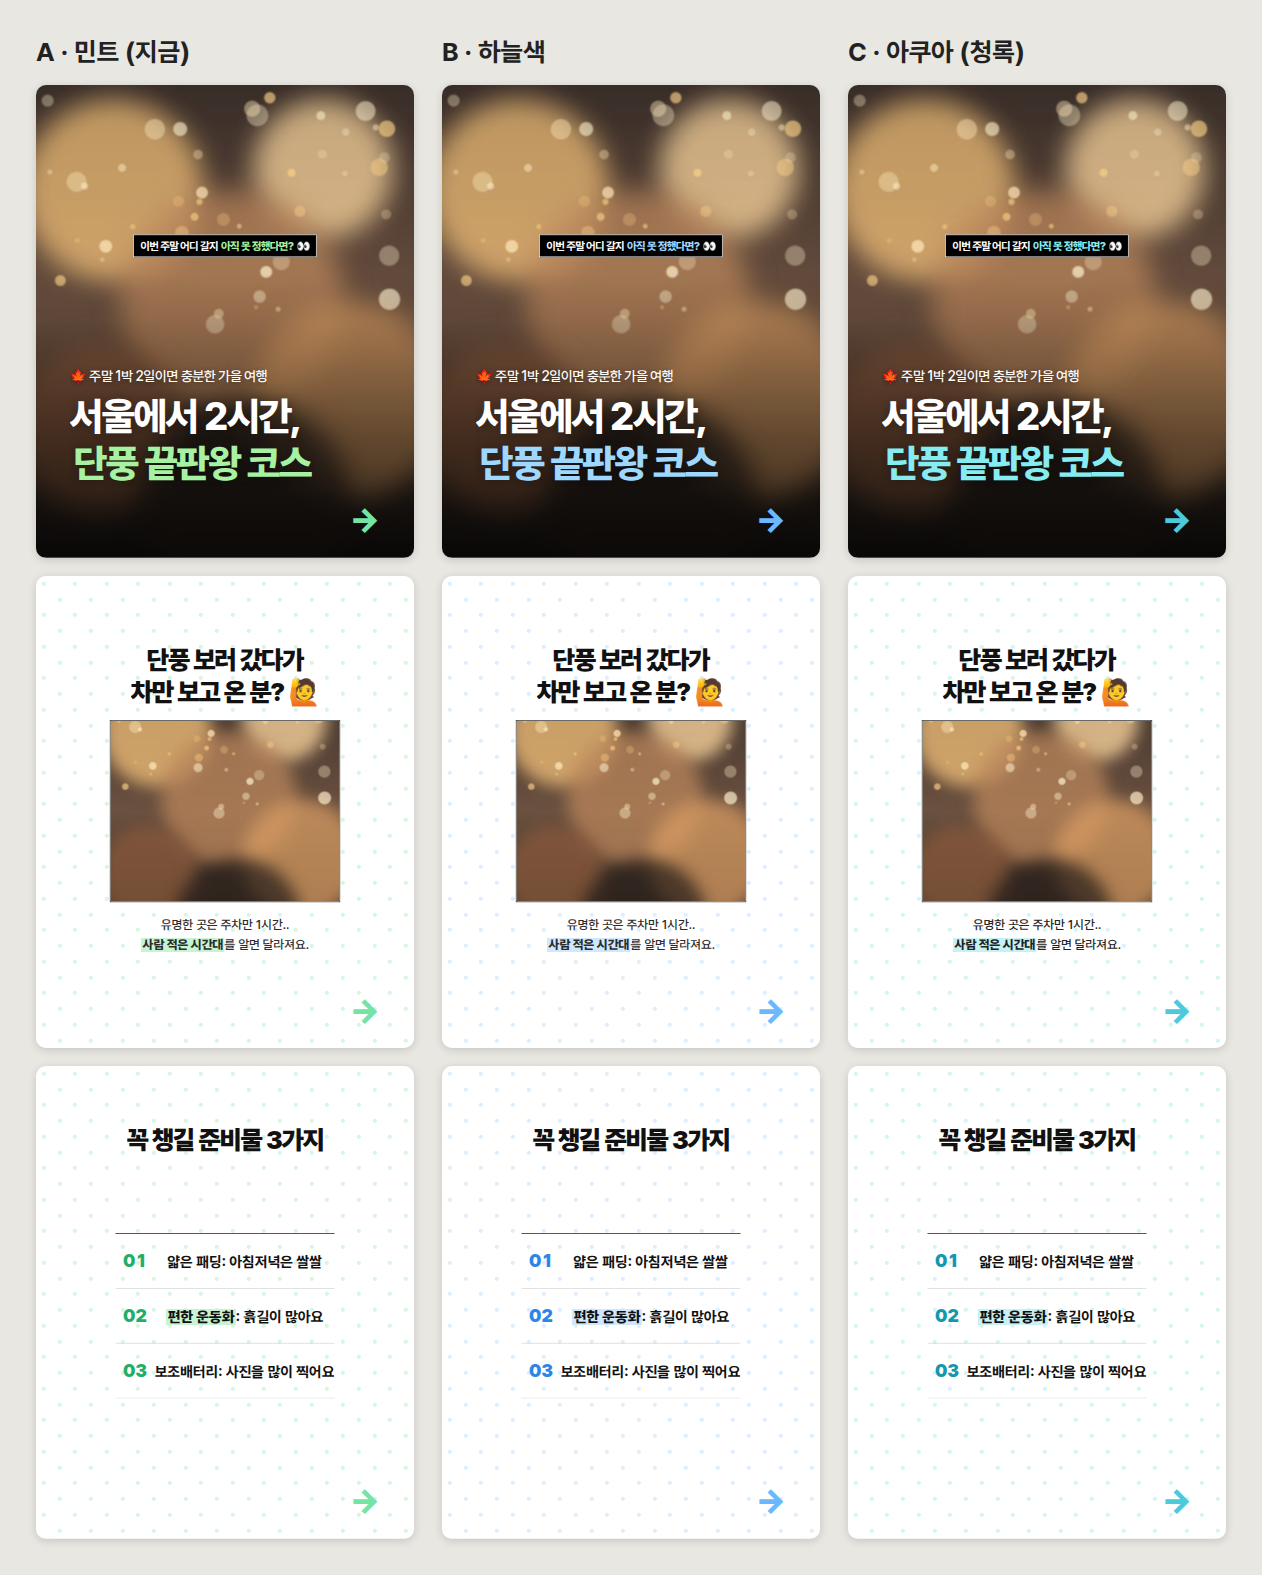
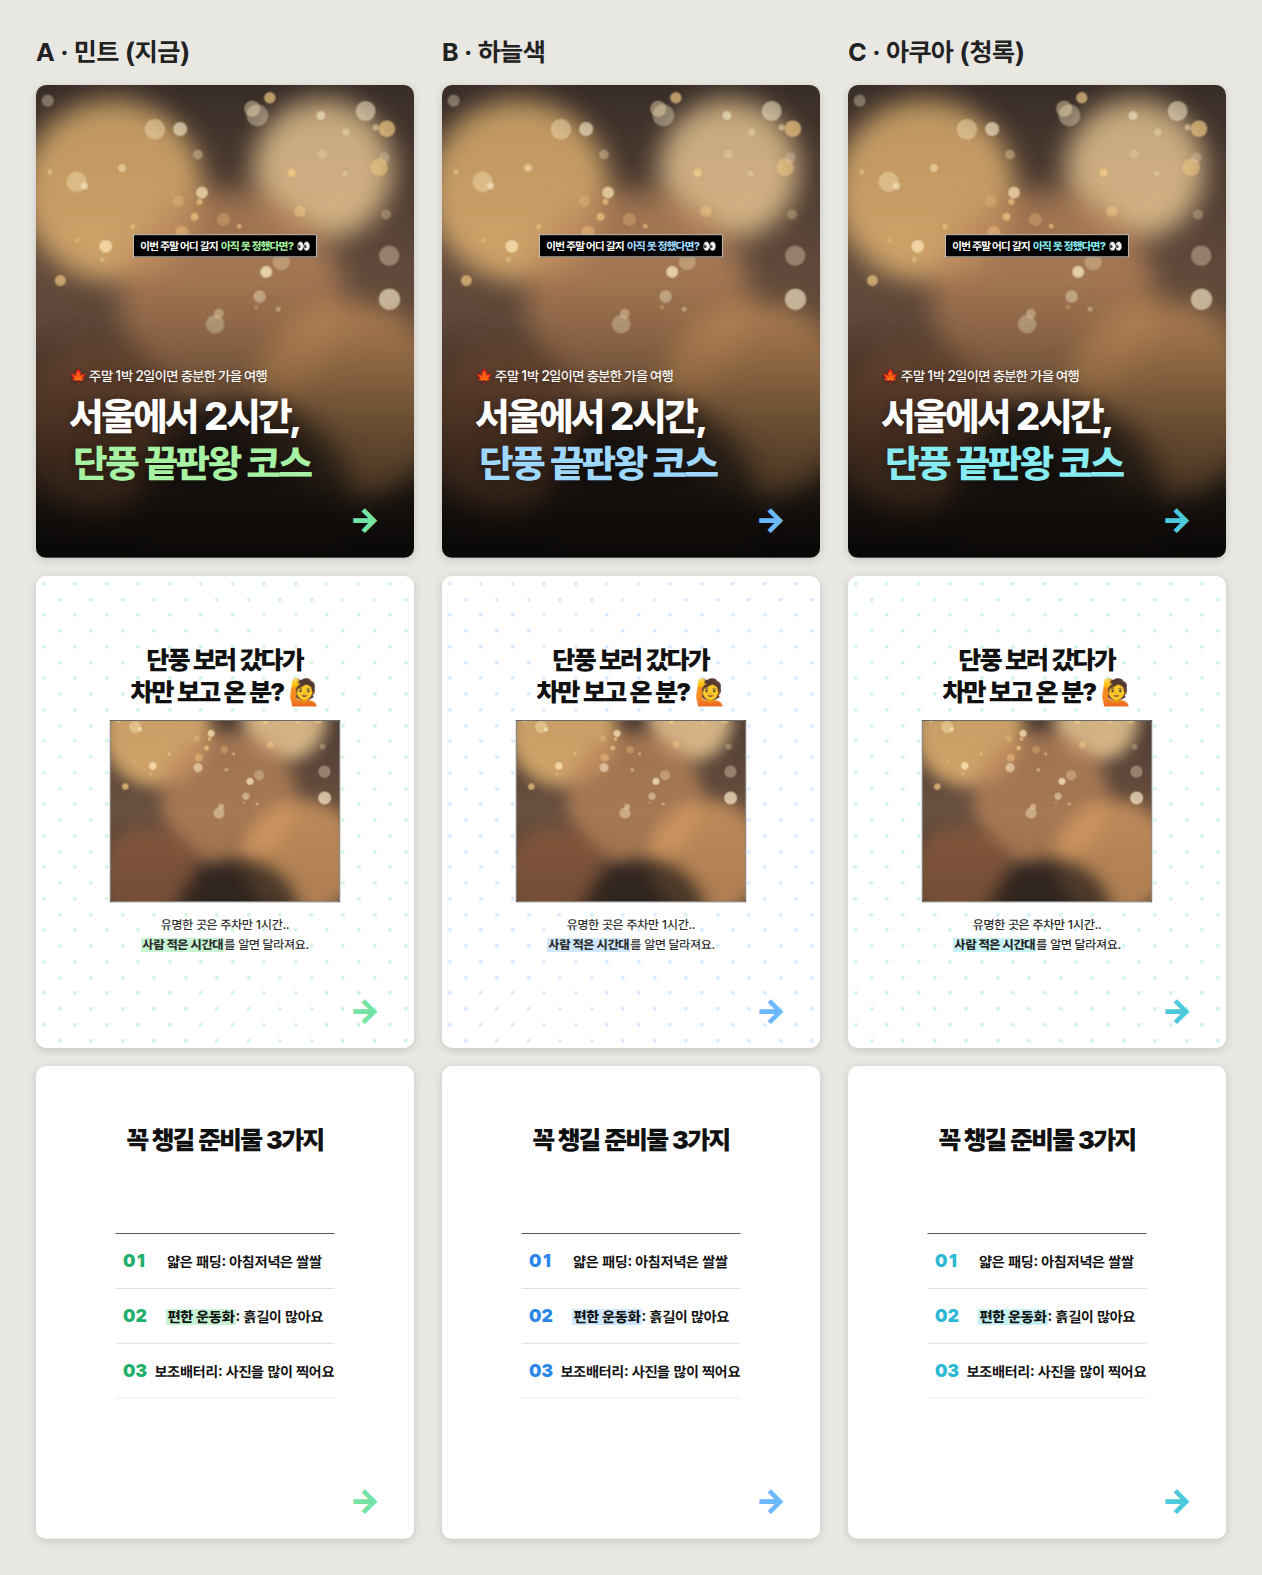
아쿠아 테마: 목록 번호 등 포인트색 전체를 밝은 아쿠아로 통일
Claude-Session: https://claude.ai/code/session_01AW918qkMwuH1UBhyEYAxys

Changed region(s): [[0.7417, 0.7778, 0.7726, 0.84]]

diff --git a/src/design/themes/trend.ts b/src/design/themes/trend.ts
@@ -97,4 +97,4 @@ ${T}.cn-l-PHOTO_COVER .cn-bg-shade { background: linear-gradient(180deg, rgba(0,
 
 export const trendTheme = makeTrendTheme("trend", { onPhoto: "#A6F2A2", highlight: "#C7F5D4", arrow: "#74E3A4", dot: "#D9F5E3", accent: "#1FAF6B", onAccent: "#0D2418" });
 export const trendSkyTheme = makeTrendTheme("trend-sky", { onPhoto: "#9FD8FF", highlight: "#CFE8FF", arrow: "#6CB8FF", dot: "#DDEEFF", accent: "#2C86E8", onAccent: "#FFFFFF" });
-export const trendAquaTheme = makeTrendTheme("trend-aqua", { onPhoto: "#86ECF2", highlight: "#C6F1F5", arrow: "#4CC9DB", dot: "#D6F3F6", accent: "#1597AE", onAccent: "#FFFFFF", button: "#2BB8D4" });
+export const trendAquaTheme = makeTrendTheme("trend-aqua", { onPhoto: "#86ECF2", highlight: "#C6F1F5", arrow: "#4CC9DB", dot: "#D6F3F6", accent: "#2BB8D4", onAccent: "#FFFFFF", button: "#2BB8D4" });
